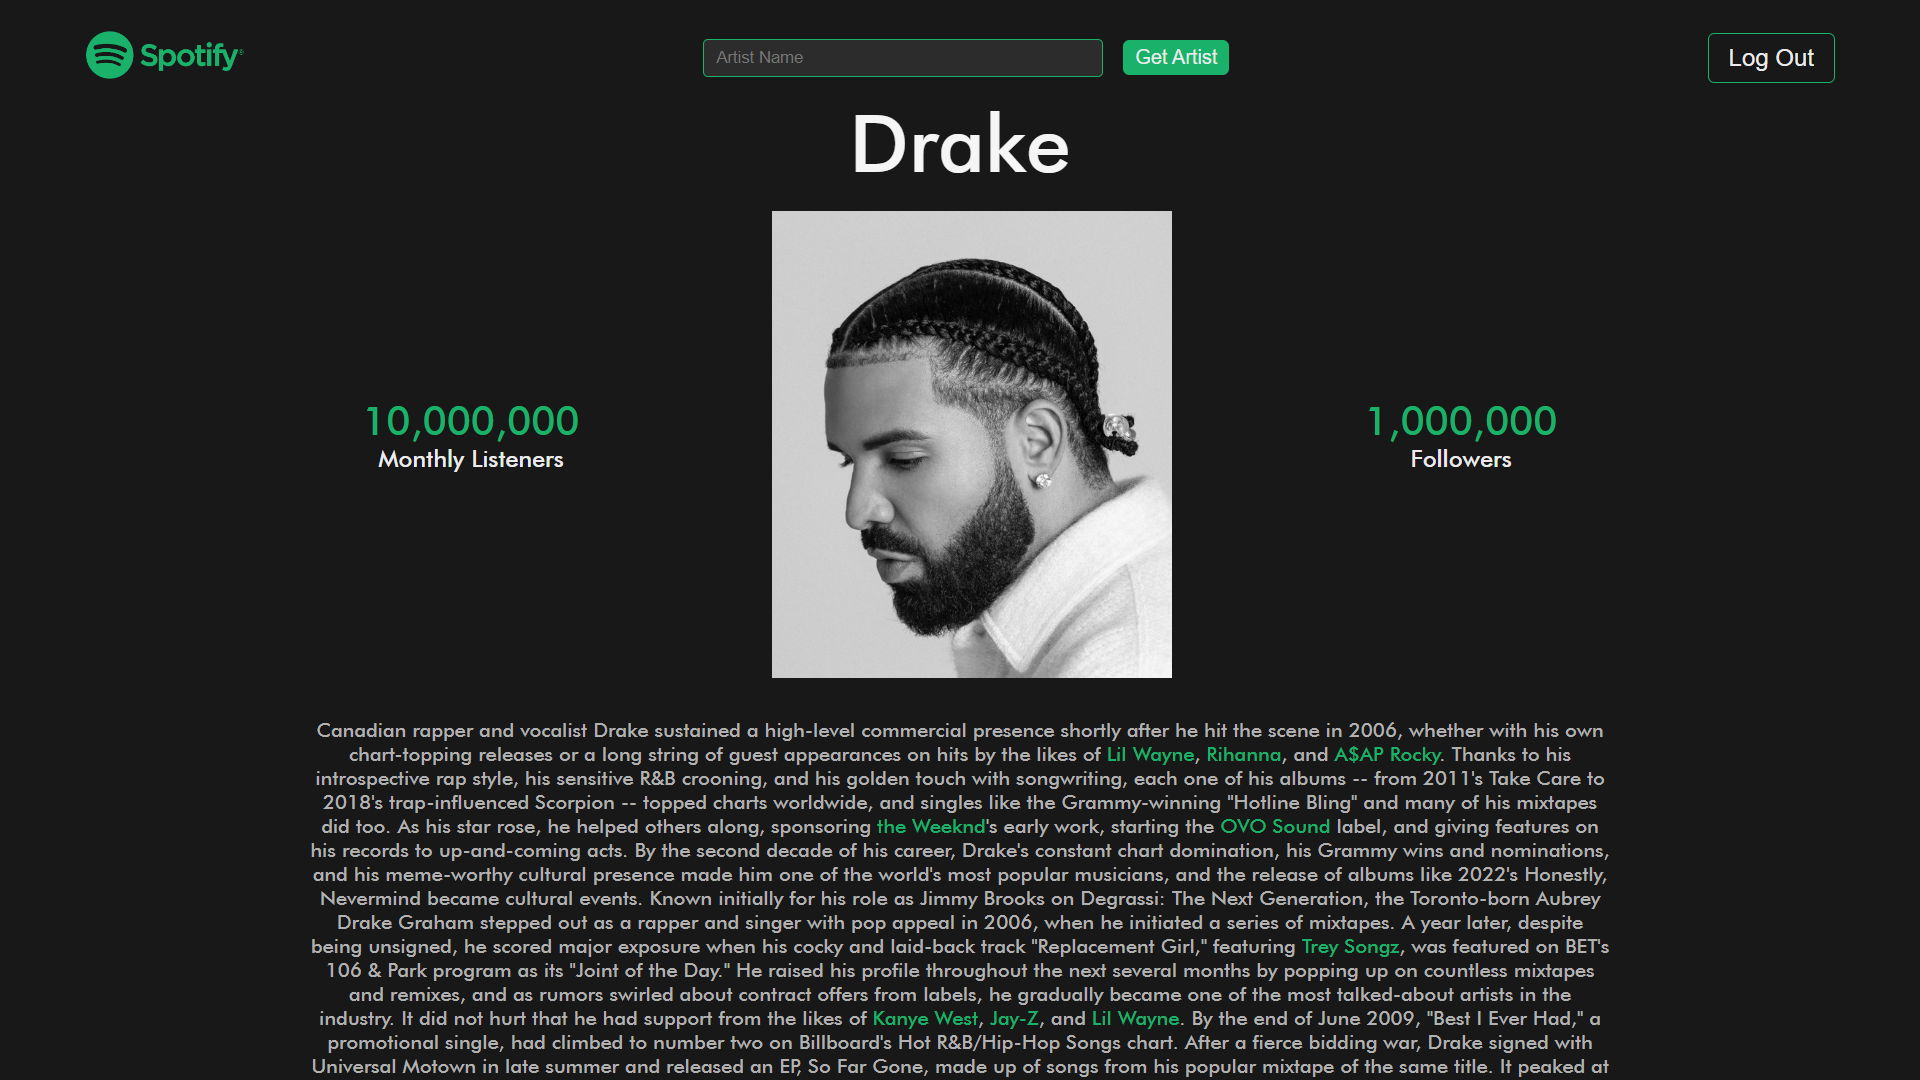
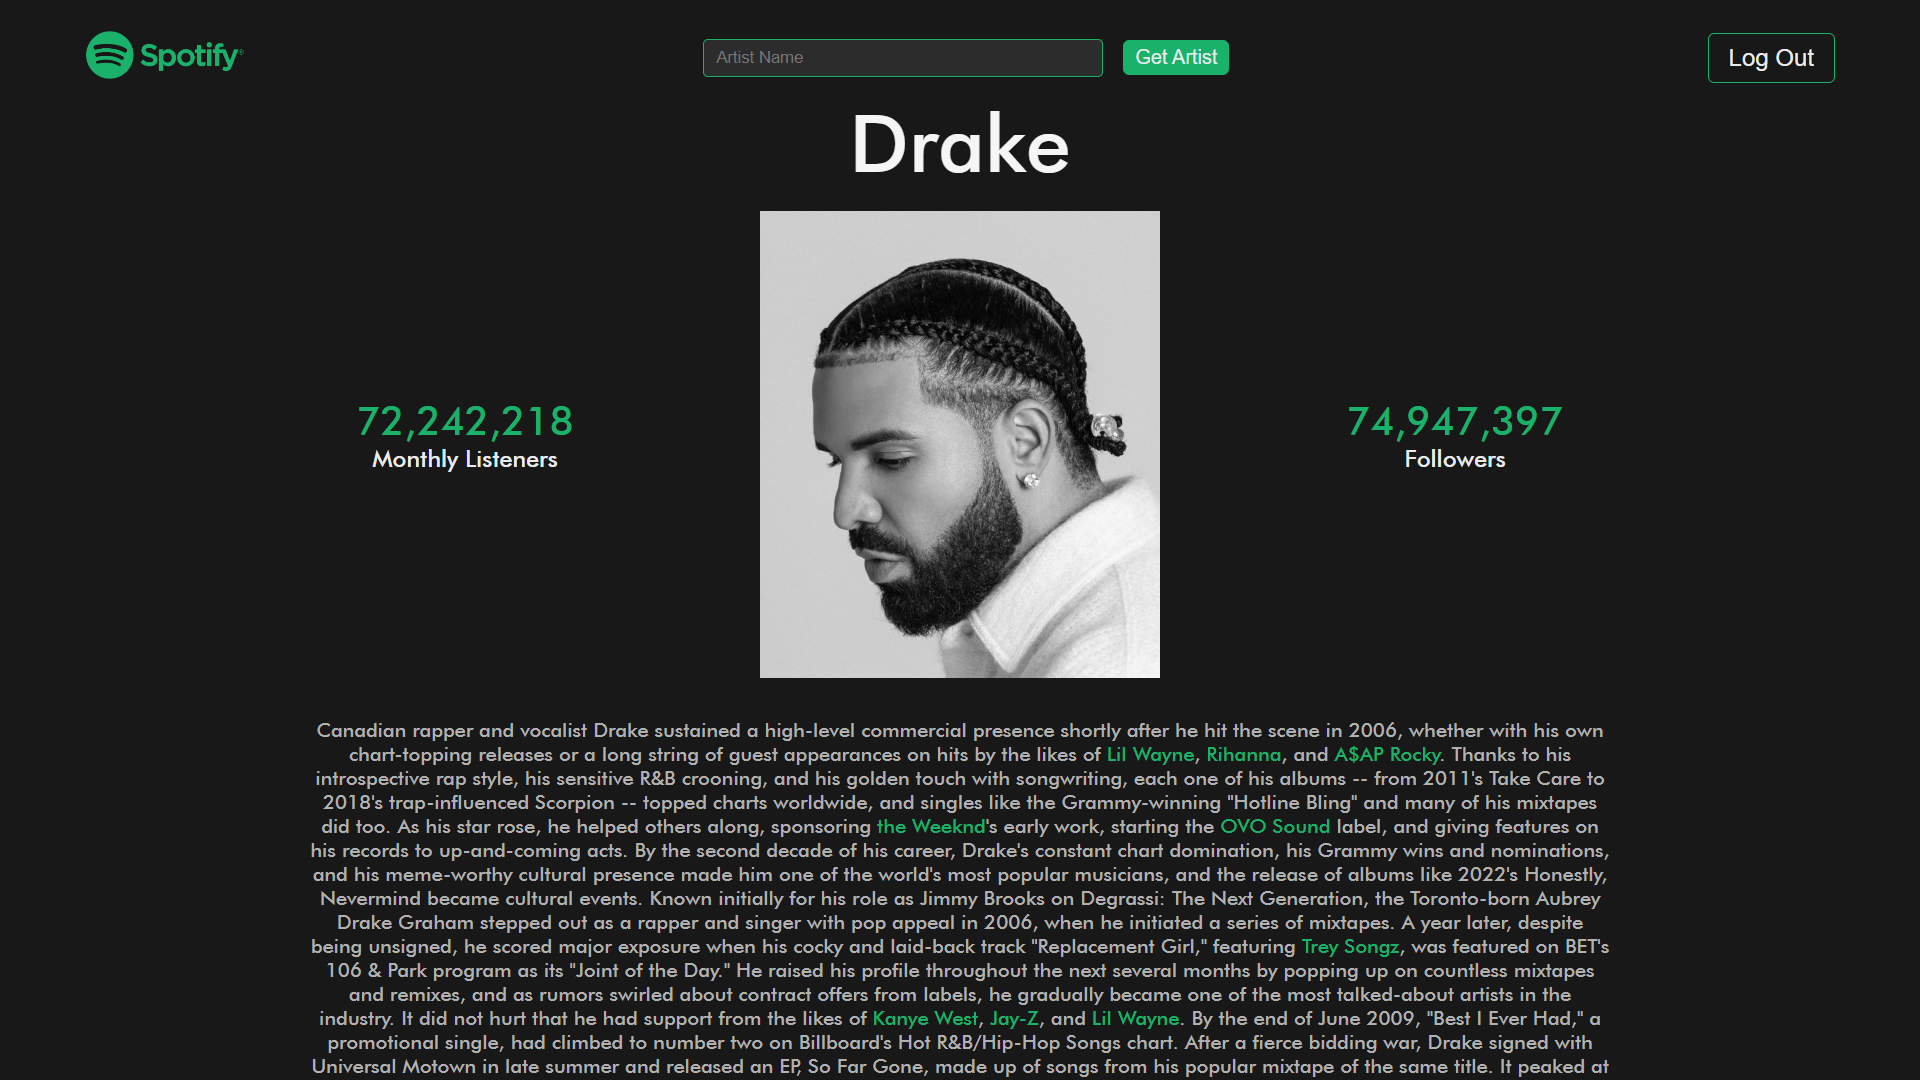
add monthly and follower count

Changed region(s): [[0.375, 0.1833, 0.625, 0.6417], [0.1875, 0.3667, 0.3125, 0.4583], [0.6875, 0.3667, 0.8125, 0.4583]]

diff --git a/services/artist.service.js b/services/artist.service.js
@@ -63,7 +63,9 @@ async function getArtistOverview() {
         let json = await res.json();
     
         let artistOverview = {
-            biography: (json?.data?.artist?.profile?.biography?.text == null ? "" : json?.data?.artist?.profile?.biography?.text)
+            biography: (json?.data?.artist?.profile?.biography?.text == null ? "" : json?.data?.artist?.profile?.biography?.text),
+            monthlyCount: (json?.data?.artist?.stats?.monthlyListeners == null ? "Not Available" : json?.data?.artist?.stats?.monthlyListeners.toLocaleString()),
+            followerCount: (json?.data?.artist?.stats?.followers == null ? "Not Available" : json?.data?.artist?.stats?.followers.toLocaleString())
         }
 
         return artistOverview;

diff --git a/controllers/artistController.js b/controllers/artistController.js
@@ -1,5 +1,4 @@
 import getData from "../services/artist.service.js";
-import makeParagraph from "../utils/makeParagraph.utils.js";
 
 export async function artistHandler(req, res, next) {
     try {
@@ -9,7 +8,8 @@ export async function artistHandler(req, res, next) {
             img: artist?.visual[0]?.url,
             artistName: artist.artistName,
             biography: overview.biography,
-            func: makeParagraph
+            monthlyCount: overview.monthlyCount,
+            followerCount: overview.followerCount,
         })
     }
     catch(err) {

diff --git a/public/style.css b/public/style.css
@@ -113,3 +113,7 @@ h1 {
 input[type="submit"] {
     margin: 1rem;
 }
+
+::-webkit-scrollbar {
+    display: none;
+}
